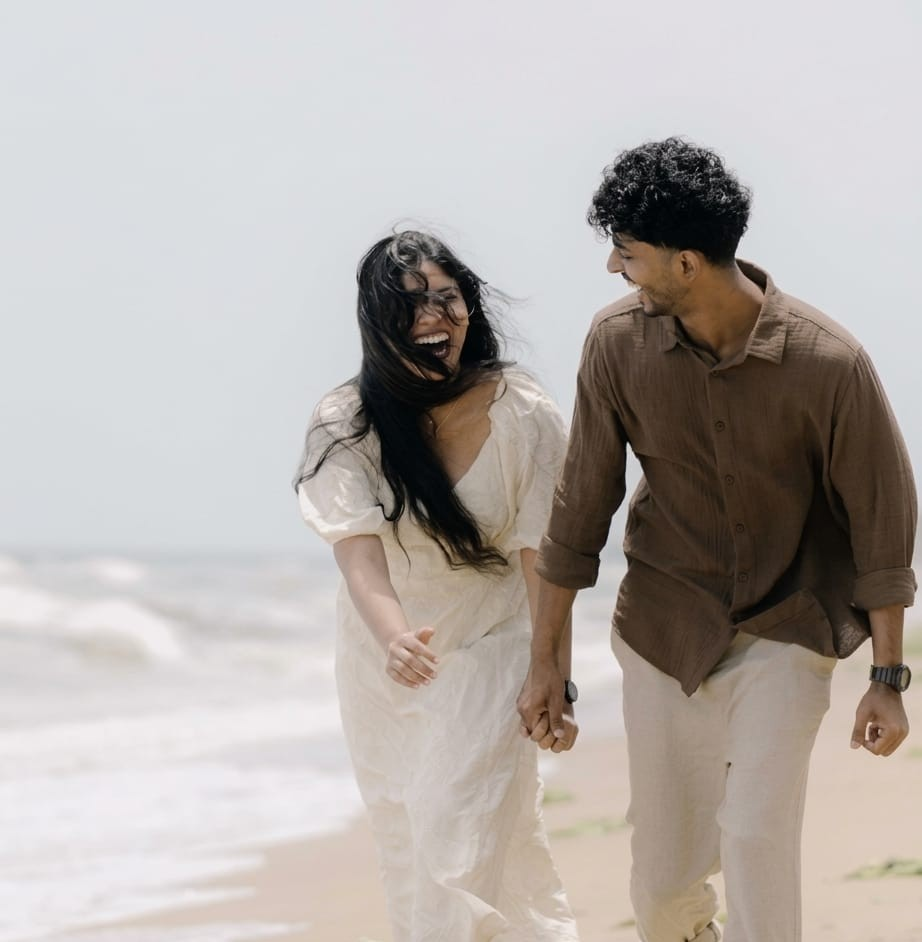
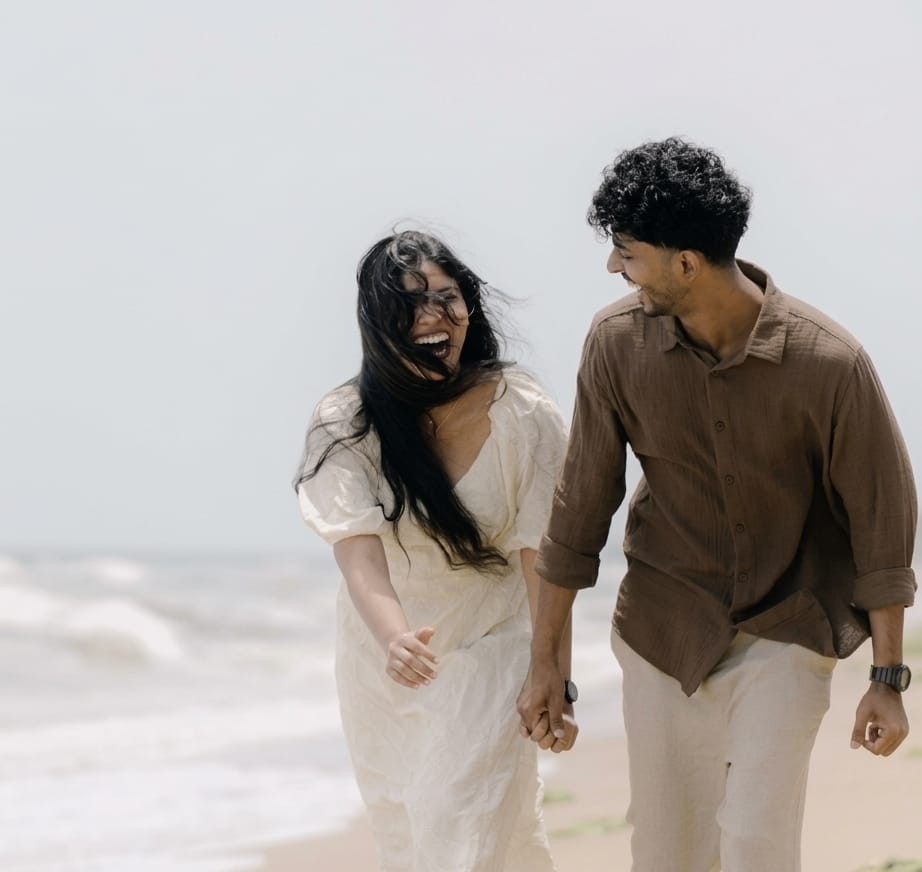
image fixes

diff --git a/components/wedding/SaveTheDate.tsx b/components/wedding/SaveTheDate.tsx
@@ -626,16 +626,16 @@ export default function SaveTheDate({ onOpen }: { onOpen: () => void }) {
           px-3.5
           py-4
           text-center
-          max-h-[calc(100svh-12px)]
+          max-h-[calc(100svh-4px)]
           sm:px-10
           sm:py-8
-          sm:max-h-[calc(100svh-24px)]
+          sm:max-h-[calc(100svh-12px)]
           md:max-h-none
           shadow-[0_25px_70px_rgba(67,48,39,.22)] sm:shadow-[0_35px_95px_rgba(67,48,39,.24)]
           backdrop-blur-[2px] sm:backdrop-blur-md md:backdrop-blur-xl
           max-[380px]:px-3
           max-[380px]:py-3
-          max-[380px]:max-h-[calc(100svh-8px)]
+          max-[380px]:max-h-[calc(100svh-4px)]
           
         "
       >
@@ -698,7 +698,6 @@ export default function SaveTheDate({ onOpen }: { onOpen: () => void }) {
               uppercase
               tracking-[0.42em]
               text-[#83736b]
-              mt-3
             "
           >
             A new chapter begins
@@ -834,7 +833,7 @@ export default function SaveTheDate({ onOpen }: { onOpen: () => void }) {
             relative
             mx-auto
             mt-4
-            aspect-[16/9]
+            aspect-[4/3]
             max-w-[425px]
             sm:mt-6
             sm:aspect-[4/3]
@@ -876,7 +875,7 @@ export default function SaveTheDate({ onOpen }: { onOpen: () => void }) {
                 priority
                 quality={72}
                 sizes="(max-width: 640px) calc(100vw - 32px), 425px"
-                className="object-cover"
+                className="object-cover object-[center_38%]"
               />
             </motion.div>
 
